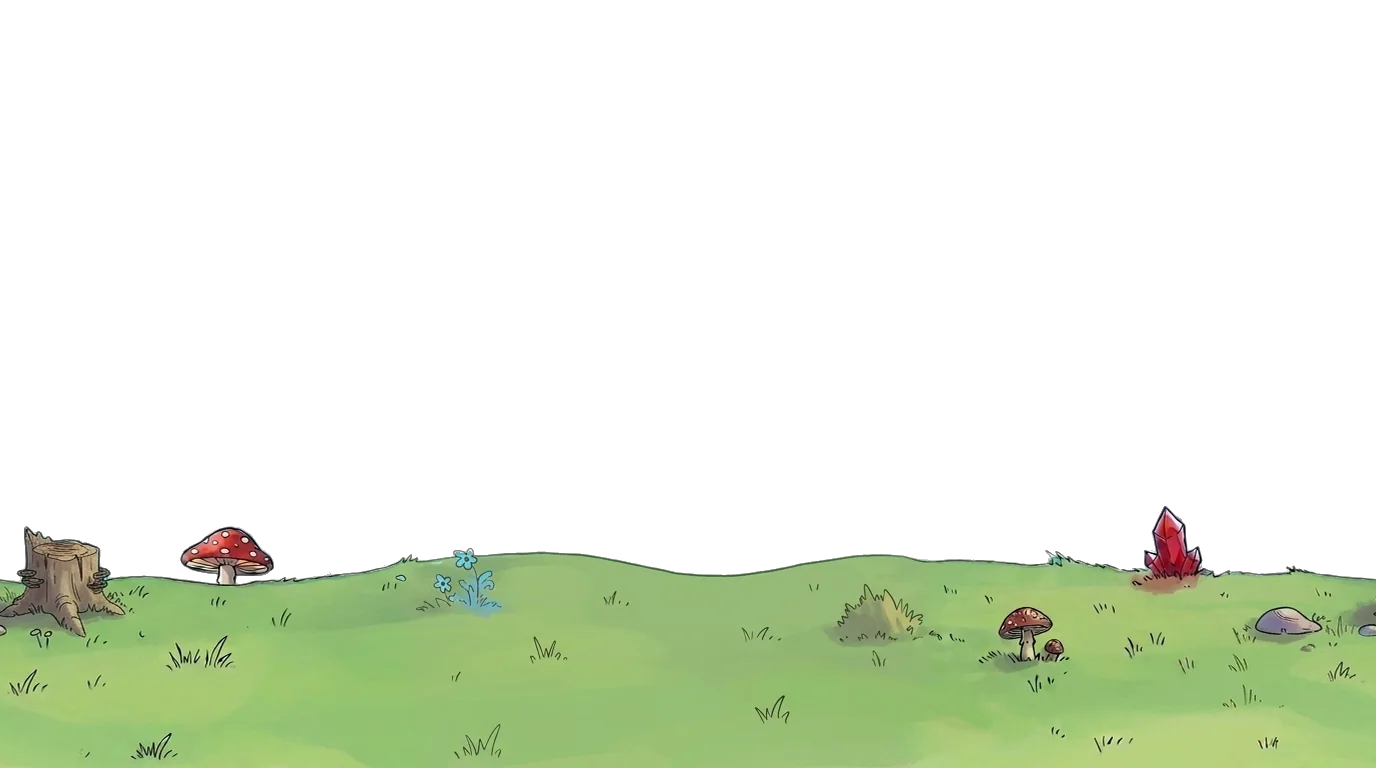
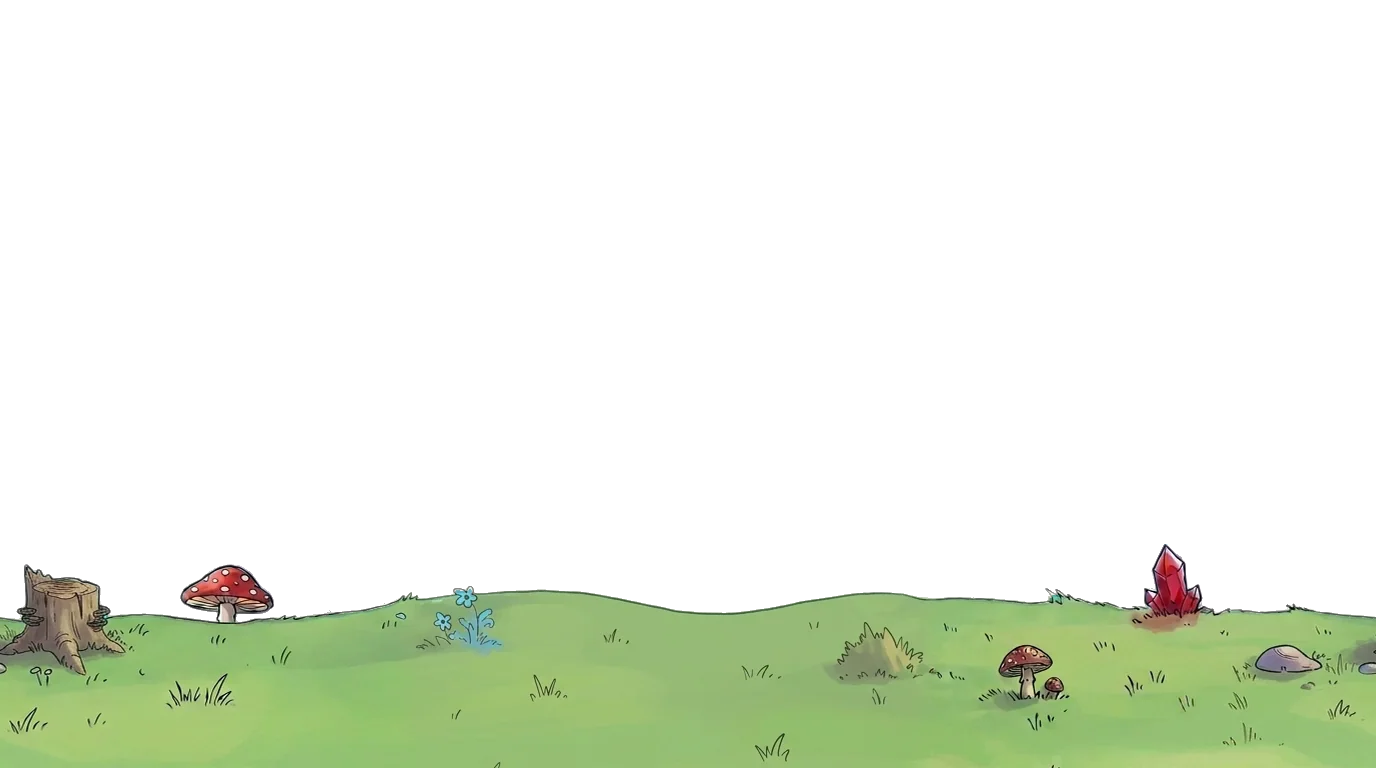
feat(valley): the near band 5 % lower; finish plan 80
Claude-Session: https://claude.ai/code/session_01MAZwqVJqrTUDA5csgByiYr

diff --git a/.todo/.done/80-dragon-valley.md b/.todo/.done/80-dragon-valley.md
@@ -27,11 +27,12 @@ burns out and an egg is left behind it. The babies are never targets: words sit 
 a panel or the top bubble.
 
 ## 1. Pictures (Gemini, prompts already in `assets-src/PROMPTS.md` section 4, Dragons)
-- [~] Pictures. Done (the owner's pictures, 2026-10-29): `obj-flame-1..4` (four sizes of one look),
+- [x] Pictures. Done (the owner's pictures, 2026-10-29): `obj-flame-1..4` (four sizes of one look),
       `obj-flame-out`, `obj-torch` (unlit), `obj-firepit`; generated: `obj-bush-1`, `obj-bush-2`.
-      `obj-bush-3`, `obj-bush-4` in bush 1's style (one with a flower). The owner's new mid and near
-      bands (eggshells gone), joined by Gemini, moved down to 55 % and 27 % from the bottom. No `obj-firepit-burning-*`: the owner chose the pit with the four flames flickering
-      in code in front of it, sparks and smoke in code.
+      `obj-bush-3` in bush 1's style (bush 2 with a flower). The owner's new mid and near bands,
+      painted on a cyan key, seams by Gemini, their skylines at 62 % and 22 % from the bottom. No
+      `obj-firepit-burning-*`: the owner chose the pit with the four flames flickering in code in
+      front of it, sparks and smoke in code.
 - [x] Until a picture exists the mode draws a code fallback (as `glovesFallback`), so the code steps
       do not wait for the art.
 - [x] Drop `obj-rock-falling-1/2` (and its PROMPTS.md row) once nothing draws them. -2 dropped;
@@ -137,7 +138,7 @@ a panel or the top bubble.
 - [x] Tests: `levels.test.ts` (kinds, `activityOf`, `minActiveS` of `thicket`), `idle.test.ts` with
       the new modes, unit tests for the catcher, the slip growth ceiling, the dragon count rule and
       the take-off safety. tsc, vitest, build.
-- [ ] Browser play-through (`?fast`, tester profile `.e2e/tester-profile.json`, `tapkoType`): all
+- [x] Browser play-through (`?fast`, tester profile `.e2e/tester-profile.json`, `tapkoType`): all
       five levels to the end, with a missed flame, slips on a bush beyond the ceiling, a dragon that
       lands in the bushes, a lullaby line with a slip, three returns in the take-off, the egg shown.
 
@@ -184,5 +185,15 @@ and the browser play-through (step 8; levels 1 and 2 checked so far). Decisions 
   word time x 0.6, the round clock (`drawClock`). The owner tested with `?fast` (a sixth of the
   minimum), which is why only three dragons came.
 - 2026-10-29: the owner painted new valley bands on a cyan key (`assets-src/bg-work/dragons/v4`,
-  mid `d3ue`, near `bmks`); seams by Gemini (the owner rejected stitching), near skyline at 27 %
-  from the bottom, mid at 62 %.
+  mid `d3ue`, near `bmks`); seams by Gemini (the owner rejected stitching), near skyline at 22 %
+  from the bottom, mid at 62 %; the flames level's band shift dropped (the owner wanted none).
+
+## Done - 2026-10-29
+World 4 (Údolie) redone as five levels: Ohníky (flames caught by a torch and handed to the fire
+pit), Zarastená cesta (growing copy, bushes with spells, one big two-word bush), Lietanie (rhythm
+lifts the dragons over the bushes, hard landings, stars capped by how many flew), Uspávanka (verses
+of two sentences with a period) and Odlet (sets of words in time, the round clock, a late word
+sends the dragon back). The dragon count rule (3, one more while the minimum is not played, at most
+5) ends a level via `endMinimum`. Texts in sk/en, the egg scene, specs, unit tests and browser play
+in every level through the owner's review rounds. The owner's pictures (flames, torch, pit, bands on
+a cyan key) are in; the keying handles any key color. Left out: nothing.

diff --git a/assets-src/PROMPTS.md b/assets-src/PROMPTS.md
@@ -474,7 +474,7 @@ flat storybook style and no longer apply.
 | `bg-planet-near.jpg` | (the owner's picture, 2026-10-28) a sandy path with pebbles, small crystals and mushrooms along its upper edge, calm grass below | full | done 2026-10-28 (seam by Gemini, tint cleaned, moved down 240 px: the path's middle at 89 % of the stage, where Tapko walks) |
 | `bg-dragons-far.jpg` | a peaceful dragon valley at sunset, warm orange and pink colours in the sky, the sun hidden behind the mountains, soft rounded mountains and a waterfall | full | done 2026-10-23 |
 | `bg-dragons-mid.jpg` | (the owner's picture on a cyan key, 2026-10-29) wooded hills, a big fly agaric, a mossy cave with a glowing crystal, a tree with red and yellow blossoms, then a wide calm meadow | full | done 2026-10-29 (seam by Gemini, moved down 8 px: its skyline at 62 % from the bottom) |
-| `bg-dragons-near.jpg` | (the owner's picture on a cyan key, 2026-10-29) a low grassy edge with a red crystal, a stump, fly agarics, pebbles, blue flowers, then wide calm grass | full | done 2026-10-29 (seam by Gemini, moved down 246 px: its skyline at 27 % from the bottom) |
+| `bg-dragons-near.jpg` | (the owner's picture on a cyan key, 2026-10-29) a low grassy edge with a red crystal, a stump, fly agarics, pebbles, blue flowers, then wide calm grass | full | done 2026-10-29 (seam by Gemini, moved down 284 px: its skyline at 22 % from the bottom) |
 | `bg-egg-far.jpg` | a bright morning valley with a long gentle grassy slope going down from left to right, a few trees and a blue river far away | full | done 2026-10-23 |
 | `bg-egg-mid.jpg` | a bush with yellow flowers, a leaning tree, a mossy boulder, a haystack, a pine, a bush with pink flowers, a signpost with empty boards and a rocky outcrop with ferns | 50 % | done 2026-10-23 |
 | `bg-egg-near.jpg` | only plants and small things: grass, yellow flowers, a pink wild rose, foxtail, a fern, a broken spotted eggshell, daisies, a mushroom and a thistle; no big rocks | 20 % | done 2026-10-23 |

diff --git a/.todo/QUEUE.md b/.todo/QUEUE.md
@@ -6,5 +6,4 @@ each in its own clean session. One line per plan in `.todo/`:
 listed here is never run. Lines whose plan has moved to `.todo/.done/` are
 skipped, and the session that finishes a plan removes its line.
 
-- [P1] 80-dragon-valley.md - after 81; world 4 is the next world of the dragon story to redo
 - [P2] 82-performance-and-upkeep.md - after 81 and 80, so it measures and reviews only the code that stays and the new valley

diff --git a/.research/game/valley.md b/.research/game/valley.md
@@ -1,6 +1,6 @@
 # The Dragon Valley: five new levels (world 4)
 
-**Status:** decided (2026-10-29), plan `.todo/80-dragon-valley.md`. **Prio:** P1. **Effort:** M-L.
+**Status:** decided (2026-10-29), plan `.todo/.done/80-dragon-valley.md`. **Prio:** P1. **Effort:** M-L.
 
 ## The problem
 - World 4 today ([story.md](../../.specify/game/story.md), `src/game/modes/dragons.ts`) is four
